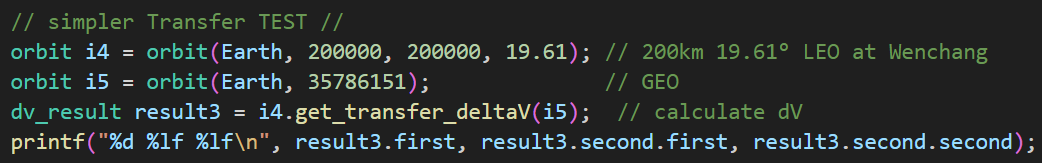
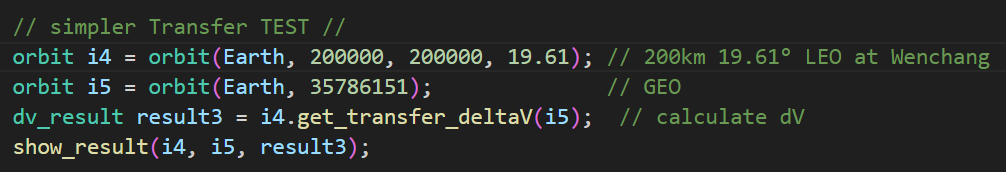
update images

diff --git a/OTC.h b/OTC.h
@@ -1,35 +1,54 @@
 #pragma once
 
-#include "types.h"
 #include "constant.h"
+#include "types.h"
 
 #include <cstdio>
 
-void show_result(const dv_result &result){
+void show_result(const dv_result &result)
+{
     printf("first ignition at %s\n", result.first ? "pe" : "ap");
-    printf("first ignition dV: %.3lf, second dV: %.3lf\n", result.second.first, result.second.second);
+    printf("first ignition dV: %.3lf, second dV: %.3lf\n", result.second.first,
+           result.second.second);
 }
 
-void show_result(const orbit &o1, const orbit &o2, const dv_result &result, bool pe2pe = true){
-    printf("+---------+---------+---------+---------+\n");
-    printf("|   pe    |   ap    |   inc   |   dV    |\n");
-    printf("+---------+---------+---------+---------+\n");
-    printf("|%-8.3e|%-8.3e|%-8.3e|   0.0   |\n", o1.get_pe(), o1.get_ap(), o1.get_inc());
-    printf("+---------+---------+---------+---------+\n");
-    if(pe2pe){
-        if(result.first){
-            printf("|%-8.3e|%-8.3e|%-8.3e|%-8.3e|\n", o1.get_pe(), o2.get_ap(), o1.get_inc(), result.second.first);
-        } else {
-            printf("|%-8.3e|%-8.3e|%-8.3e|%-8.3e|\n", o1.get_ap(), o2.get_pe(), o1.get_inc(), result.second.first);
-        }
-    } else {
-        if(result.first){
-            printf("|%-8.3e|%-8.3e|%-8.3e|%-8.3e|\n", o1.get_pe(), o2.get_pe(), o1.get_inc(), result.second.first);
-        } else {
-            printf("|%-8.3e|%-8.3e|%-8.3e|%-8.3e|\n", o1.get_ap(), o2.get_ap(), o1.get_inc(), result.second.first);
-        }
+void show_result(const orbit &o1, const orbit &o2, const dv_result &result,
+                 bool pe2pe = true, bool show_header = true)
+{
+    if (show_header) {
+        printf("+---------+---------+---------+---------+\n");
+        printf("|   pe    |   ap    |   inc   |   dV    |\n");
+        printf("+---------+---------+---------+---------+\n");
+        printf("|%-8.3e|%-8.3e|%-8.3e|   0.0   |\n", o1.get_pe(), o1.get_ap(),
+               o1.get_inc());
+        printf("+---------+---------+---------+---------+\n");
     }
-    printf("+---------+---------+---------+---------+\n");
-    printf("|%-8.3e|%-8.3e|%-8.3e|%-8.3e|\n", o2.get_pe(), o2.get_ap(), o2.get_inc(), result.second.second);
-    printf("+---------+---------+---------+---------+\n");
+    if (std::abs(result.second.first) >= 0.1) {
+        if (pe2pe) {
+            if (result.first) {
+                printf("|%-8.3e|%-8.3e|%-8.3e|%-8.3e|\n", o1.get_pe(),
+                       o2.get_ap(), o1.get_inc(), result.second.first);
+            }
+            else {
+                printf("|%-8.3e|%-8.3e|%-8.3e|%-8.3e|\n", o1.get_ap(),
+                       o2.get_pe(), o1.get_inc(), result.second.first);
+            }
+        }
+        else {
+            if (result.first) {
+                printf("|%-8.3e|%-8.3e|%-8.3e|%-8.3e|\n", o1.get_pe(),
+                       o2.get_pe(), o1.get_inc(), result.second.first);
+            }
+            else {
+                printf("|%-8.3e|%-8.3e|%-8.3e|%-8.3e|\n", o1.get_ap(),
+                       o2.get_ap(), o1.get_inc(), result.second.first);
+            }
+        }
+        printf("+---------+---------+---------+---------+\n");
+    }
+    if (std::abs(result.second.second) >= 0.1) {
+        printf("|%-8.3e|%-8.3e|%-8.3e|%-8.3e|\n", o2.get_pe(), o2.get_ap(),
+               o2.get_inc(), result.second.second);
+        printf("+---------+---------+---------+---------+\n");
+    }
 }

diff --git a/main.cpp b/main.cpp
@@ -20,14 +20,14 @@ int main(){
     orbit i3 = orbit(Earth, 35786151);              // GEO
     dv_result result1 = i1.get_transfer_deltaV(i2);  // calculate dV
     dv_result result2 = i2.get_transfer_deltaV(i3);  // calculate dV
-    // printf("%d %lf %lf\n", result1.first, result1.second.first, result1.second.second);
-    // printf("%d %lf %lf\n", result2.first, result2.second.first, result2.second.second);
+    show_result(i1, i2, result1, true, true);
+    show_result(i2, i3, result2, true, false);
+    printf("------------------\n");
 
     // simpler Transfer TEST //
     orbit i4 = orbit(Earth, 200000, 200000, 19.61); // 200km 19.61° LEO at Wenchang
     orbit i5 = orbit(Earth, 35786151);              // GEO
     dv_result result3 = i4.get_transfer_deltaV(i5);  // calculate dV
-    // printf("%d %lf %lf\n", result3.first, result3.second.first, result3.second.second);
     show_result(i4, i5, result3);
 
     return 0;
